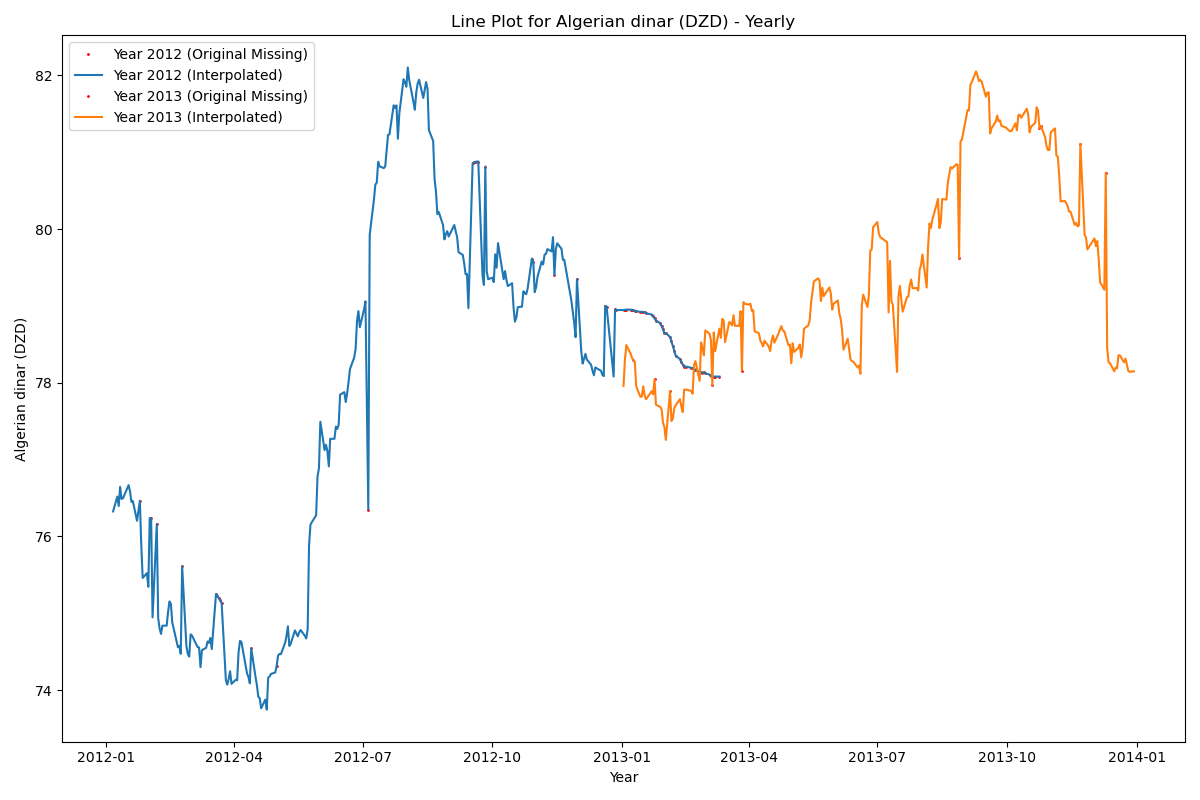
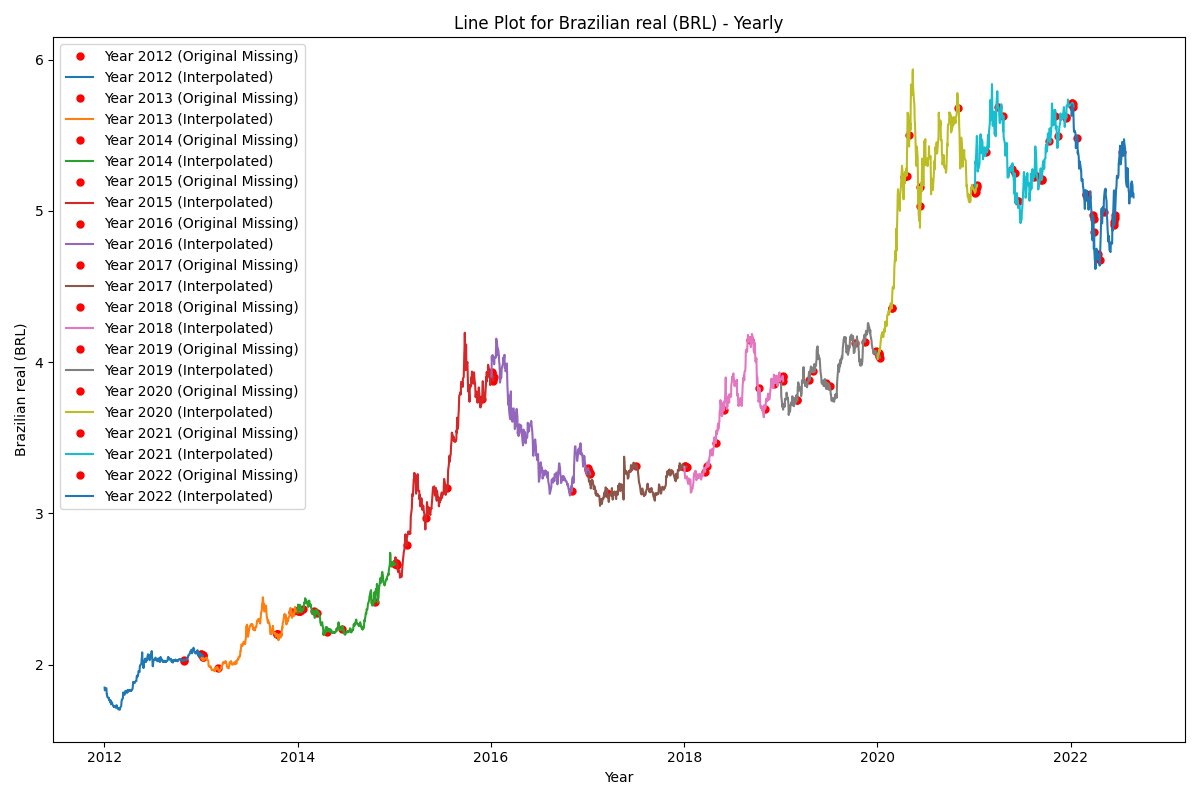
Final changes made

diff --git a/templates/index.html b/templates/index.html
@@ -13,6 +13,7 @@
     <link rel="preconnect" href="https://fonts.googleapis.com">
     <link rel="preconnect" href="https://fonts.gstatic.com" crossorigin>
     <link href="https://fonts.googleapis.com/css2?family=Libre+Baskerville&family=Lora&family=Montserrat:wght@300&display=swap" rel="stylesheet">
+    <link rel="icon" href="https://media-s3-us-east-1.ceros.com/northern-trust/images/2023/05/31/0abf7135c2830146e9d9c6be935278d8/processed-svg-anchor-icon.svg" type="image/x-icon">
 </head>
 <body>
     <d class="mainContainer">
@@ -136,7 +137,7 @@
                         </div>
                     </div>
                     <div class="durationContainer">
-                        Duration: <input list="options3" type="text" placeholder="" name="duration" >
+                        Duration: <input list="options3" type="text" placeholder="Yearly or Weekly" name="duration" >
                         <datalist id="options3">
                             <option value="Yearly" selected>Yearly</option>
                             <option value="Weekly">Weekly</option>
@@ -155,19 +156,17 @@
                     
                 </div>
                 <div class="forButtons">
-                    <input type="submit" class="button-17" value="CREATE GRAPH" /> 
+                    <input type="submit" class="button-17" value="CREATE GRAPH"/>
                     
                 </div>
-
-                
-        
-                
+        <p>{{ highest_rate }} , {{ lowest_rate }} , {{ average_rate }}</p>
         </form>
+
         <br><br><br><br><br>
         <div class = "innerContainer">
 
         <form id="myForm2" action="/get_amount" method="POST">
-            Currency1: <input list="options1" type="text" name="currency1" >
+            Currency1: <input list="options1" type="text" placeholder="From" ="currency1" >
                 <datalist id="options1">
                     <option value="U.S. dollar (USD)" selected>U.S. dollar (USD)</option>
                     <option value="Algerian dinar (DZD)">Algerian dinar (DZD)</option>
@@ -222,7 +221,7 @@
                     <option value="Uruguayan peso (UYU)">Uruguayan peso (UYU)</option>        
                 </datalist>
                 
-            Currency2: <input list="options1" type="text" name="currency2" >
+            Currency2: <input list="options1" type="text" placeholder="To" ="currency2" >
                 <datalist id="options1">
                     <option value="U.S. dollar (USD)" selected>U.S. dollar (USD)</option>
                     <option value="Algerian dinar (DZD)">Algerian dinar (DZD)</option>
@@ -279,7 +278,7 @@
             Amount: <input type="text" name="amount" >
                 
 
-            <input type="submit" value="Get Amount" />
+            <input type="submit" value="Get Amount" class="button-17" />
 
             <p>Hence the total amount you will receive is "{{ amount }}"</p>
 

diff --git a/backend.py b/backend.py
@@ -54,10 +54,11 @@ def get_amount():
         print(total_amount)
 
         random_query_parameter = random.randint(1, 1000000)
-        content = render_template('index.html', amount = total_amount , random_query_parameter=random_query_parameter)
+        content = render_template('index.html', amount = "The predicted price is {}".format(total_amount) , random_query_parameter=random_query_parameter)
 
         # Create a response object
         response = make_response(content)
+        
         
         return response
 
@@ -93,40 +94,37 @@ def get_plot():
 
         if(duration =="Yearly"):
             df_agg = df.groupby(['Date', 'Year'])[currency2].mean().reset_index()
-            print(df_agg)
-    
 
             pivot_df = df_agg.pivot(index='Date', columns='Year', values=currency2)
 
             original_missing_mask = pivot_df.isna()
+            window_size = 8
 
-            window_size = 50
-
-            # Use rolling mean to calculate the mean of the neighboring 10 data points for each column
             pivot_df = pivot_df.apply(lambda col: col.fillna(col.rolling(window=window_size, min_periods=1).mean()))
 
             plt.figure(figsize=(12, 8))
 
             for col in pivot_df.columns:
                 year_label = col
-
-                plt.plot(pivot_df.index[original_missing_mask[col]], pivot_df[col][original_missing_mask[col]], 'o', label=f'Year {year_label} (Original Missing)', linestyle='None', markersize=1, color='red')
+                print(year_label)
+                plt.plot(pivot_df.index[original_missing_mask[col]], pivot_df[col][original_missing_mask[col]], 'o', label=f'Year {year_label} (Original Missing)', linestyle='None', markersize=5, color='red')
 
                 plt.plot(pivot_df.index, pivot_df[col], label=f'Year {year_label} (Interpolated)')
 
             plt.xlabel('Year')
             plt.ylabel(currency2)
             plt.title(f'Line Plot for {currency2} - Yearly')
-
+            
             plt.legend()
 
             plt.tight_layout()
+
             plt.savefig(file_path)
             plt.close()
 
         elif(duration == "Weekly"):
             #code
-            df['Week'] = df['Date'].dt.to_period('W') 
+            df['Week'] = df_s['Date'].dt.to_period('W') 
             df_agg = df.groupby(['Date', 'Week'])[(currency2)].mean().reset_index()
 
             
@@ -143,7 +141,7 @@ def get_plot():
             for col in pivot_df.columns:
                 week_label = col
 
-                plt.plot(pivot_df.index[original_missing_mask[col]], pivot_df[col][original_missing_mask[col]], 'o', label=f'Week {week_label} (Original Missing)', linestyle='None', markersize=3, color='red')
+                plt.plot(pivot_df.index[original_missing_mask[col]], pivot_df[col][original_missing_mask[col]], 'o', label=f'Week {week_label} (Original Missing)', linestyle='None', markersize=2, color='red')
 
                 plt.plot(pivot_df.index, pivot_df[col], label=f'Week {week_label} (Interpolated)')
 
@@ -160,39 +158,41 @@ def get_plot():
     
 
         
-        elif(duration =="Quaterly"):
-            #code
-            df['Quarter'] = df['Date'].dt.to_period('Q')
-            df_agg = df.groupby(['Date', 'Quarter'])[currency2].mean().reset_index()
+        # elif(duration =="Quaterly"):
+        #     #code
+        #     df['Quarter'] = df['Date'].dt.to_period('Q')
+        #     df_agg = df.groupby(['Date', 'Quarter'])[currency2].mean().reset_index()
 
-            pivot_df = df_agg.pivot(index='Date', columns='Quarter', values=currency2)
+        #     pivot_df = df_agg.pivot(index='Date', columns='Quarter', values=currency2)
 
-            original_missing_mask = pivot_df.isna()
+        #     original_missing_mask = pivot_df.isna()
 
-            window_size = 10
+        #     window_size = 10
 
-            pivot_df_interpolated = pivot_df.apply(lambda col: col.fillna(col.rolling(window=window_size, min_periods=1).mean()))
+        #     pivot_df_interpolated = pivot_df.apply(lambda col: col.fillna(col.rolling(window=window_size, min_periods=1).mean()))
 
-            plt.figure(figsize=(12, 8))
+        #     plt.figure(figsize=(12, 8))
 
-            colors = ['red', 'blue', 'green', 'purple']  
+        #     colors = ['red', 'blue', 'green', 'purple']  # You can add more colors as needed
 
-            for i, col in enumerate(pivot_df.columns):
-                quarter_label = col
+        #     for i, col in enumerate(pivot_df.columns):
+        #         quarter_label = col
 
-                plt.plot(pivot_df.index[original_missing_mask[col].any()], df_agg[col][original_missing_mask[col].any()], 'o', label=f'Quarter {quarter_label} (Original Missing)', linestyle='None', markersize=5, color=colors[i % len(colors)])
+        #         plt.plot(pivot_df.index[original_missing_mask[col]], df_agg[col][original_missing_mask[col]], 'o', label=f'Quarter {quarter_label} (Original Missing)', linestyle='None', markersize=5, color=colors[i % len(colors)])
 
-                plt.plot(pivot_df.index, pivot_df_interpolated[col], label=f'Quarter {quarter_label} (Interpolated)', color=colors[i % len(colors)])
+        #         plt.plot(pivot_df.index, pivot_df_interpolated[col], label=f'Quarter {quarter_label} (Interpolated)', color=colors[i % len(colors)])
 
-            plt.xlabel('Date')
-            plt.ylabel(currency2)
-            plt.title(f'Line Plot for {currency2} - Quarterly')
+        #     plt.xlabel('Date')
+        #     plt.ylabel(currency2)
+        #     plt.title(f'Line Plot for {currency2} - Quarterly')
 
-            plt.legend()
+        #     plt.legend()
 
-            plt.tight_layout()
-            plt.savefig(file_path)
-            plt.close()
+        #     plt.tight_layout()
+
+
+        #     plt.savefig(file_path)
+        #     plt.close()
 
 
         elif(duration =="Monthly"):
@@ -218,8 +218,8 @@ def get_plot():
 
         random_query_parameter = random.randint(1, 1000000)
 
-        content = render_template('index.html', plot_url=file_path, random_query_parameter=random_query_parameter, highest_rate= highest_rate, 
-        lowest_rate = lowest_rate, average_rate = average_rate )
+        content = render_template('index.html', plot_url=file_path, random_query_parameter=random_query_parameter, highest_rate= "Highest value- {}".format(highest_rate), 
+        lowest_rate = "Lowest value- {}".format(lowest_rate), average_rate = "FX value- {}".format(average_rate) )
 
         # Create a response object
         response = make_response(content)
